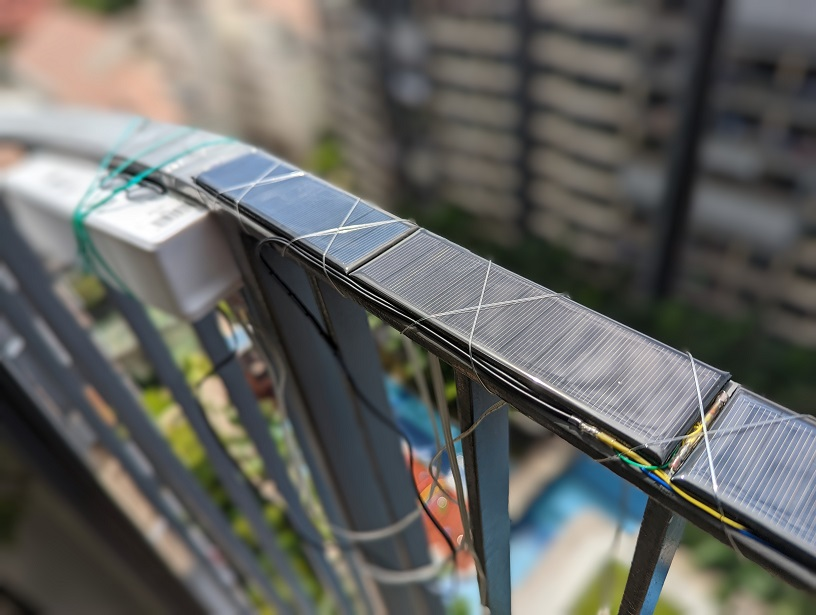
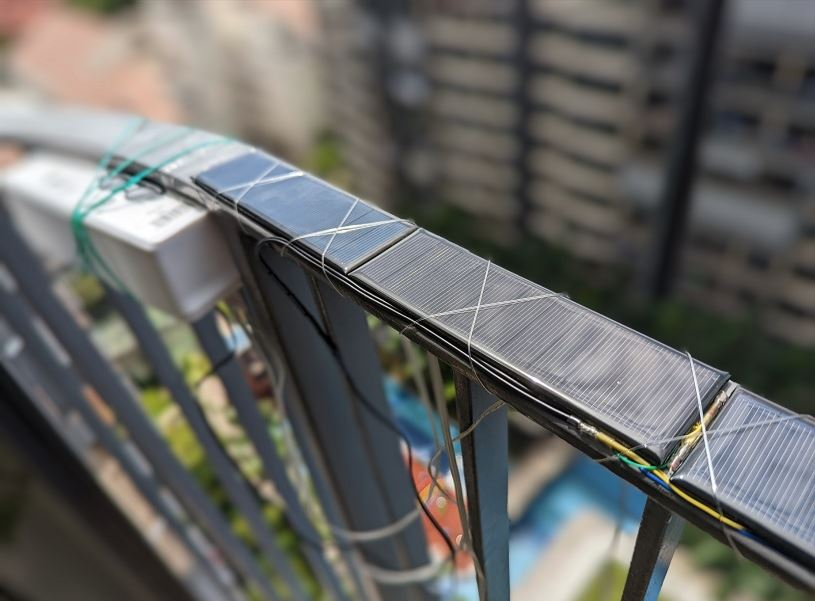
readme

diff --git a/README.md b/README.md
@@ -4,12 +4,6 @@
 
 This is a DIY project using solar pannels to power decorative night lights.
 
-![Solar Pannels Daytime](/solar-day.jpg)
-At daytime, the solar pannels charges two 18650 batteries.
-
-![Night Light](/night-light.jpg)
-In the evening, the batteries power up an ESP8266 IC which controls two WS2812B LED strips.
-
 At daytime, the solar pannels charges two 18650 batteries. | In the evening, the batteries power up an ESP8266 IC which controls two WS2812B LED strips.
 :-------------------------:|:-------------------------:
 ![Solar Pannels Daytime](/solar-day.jpg)  |  ![Night Light](/night-light.jpg)
